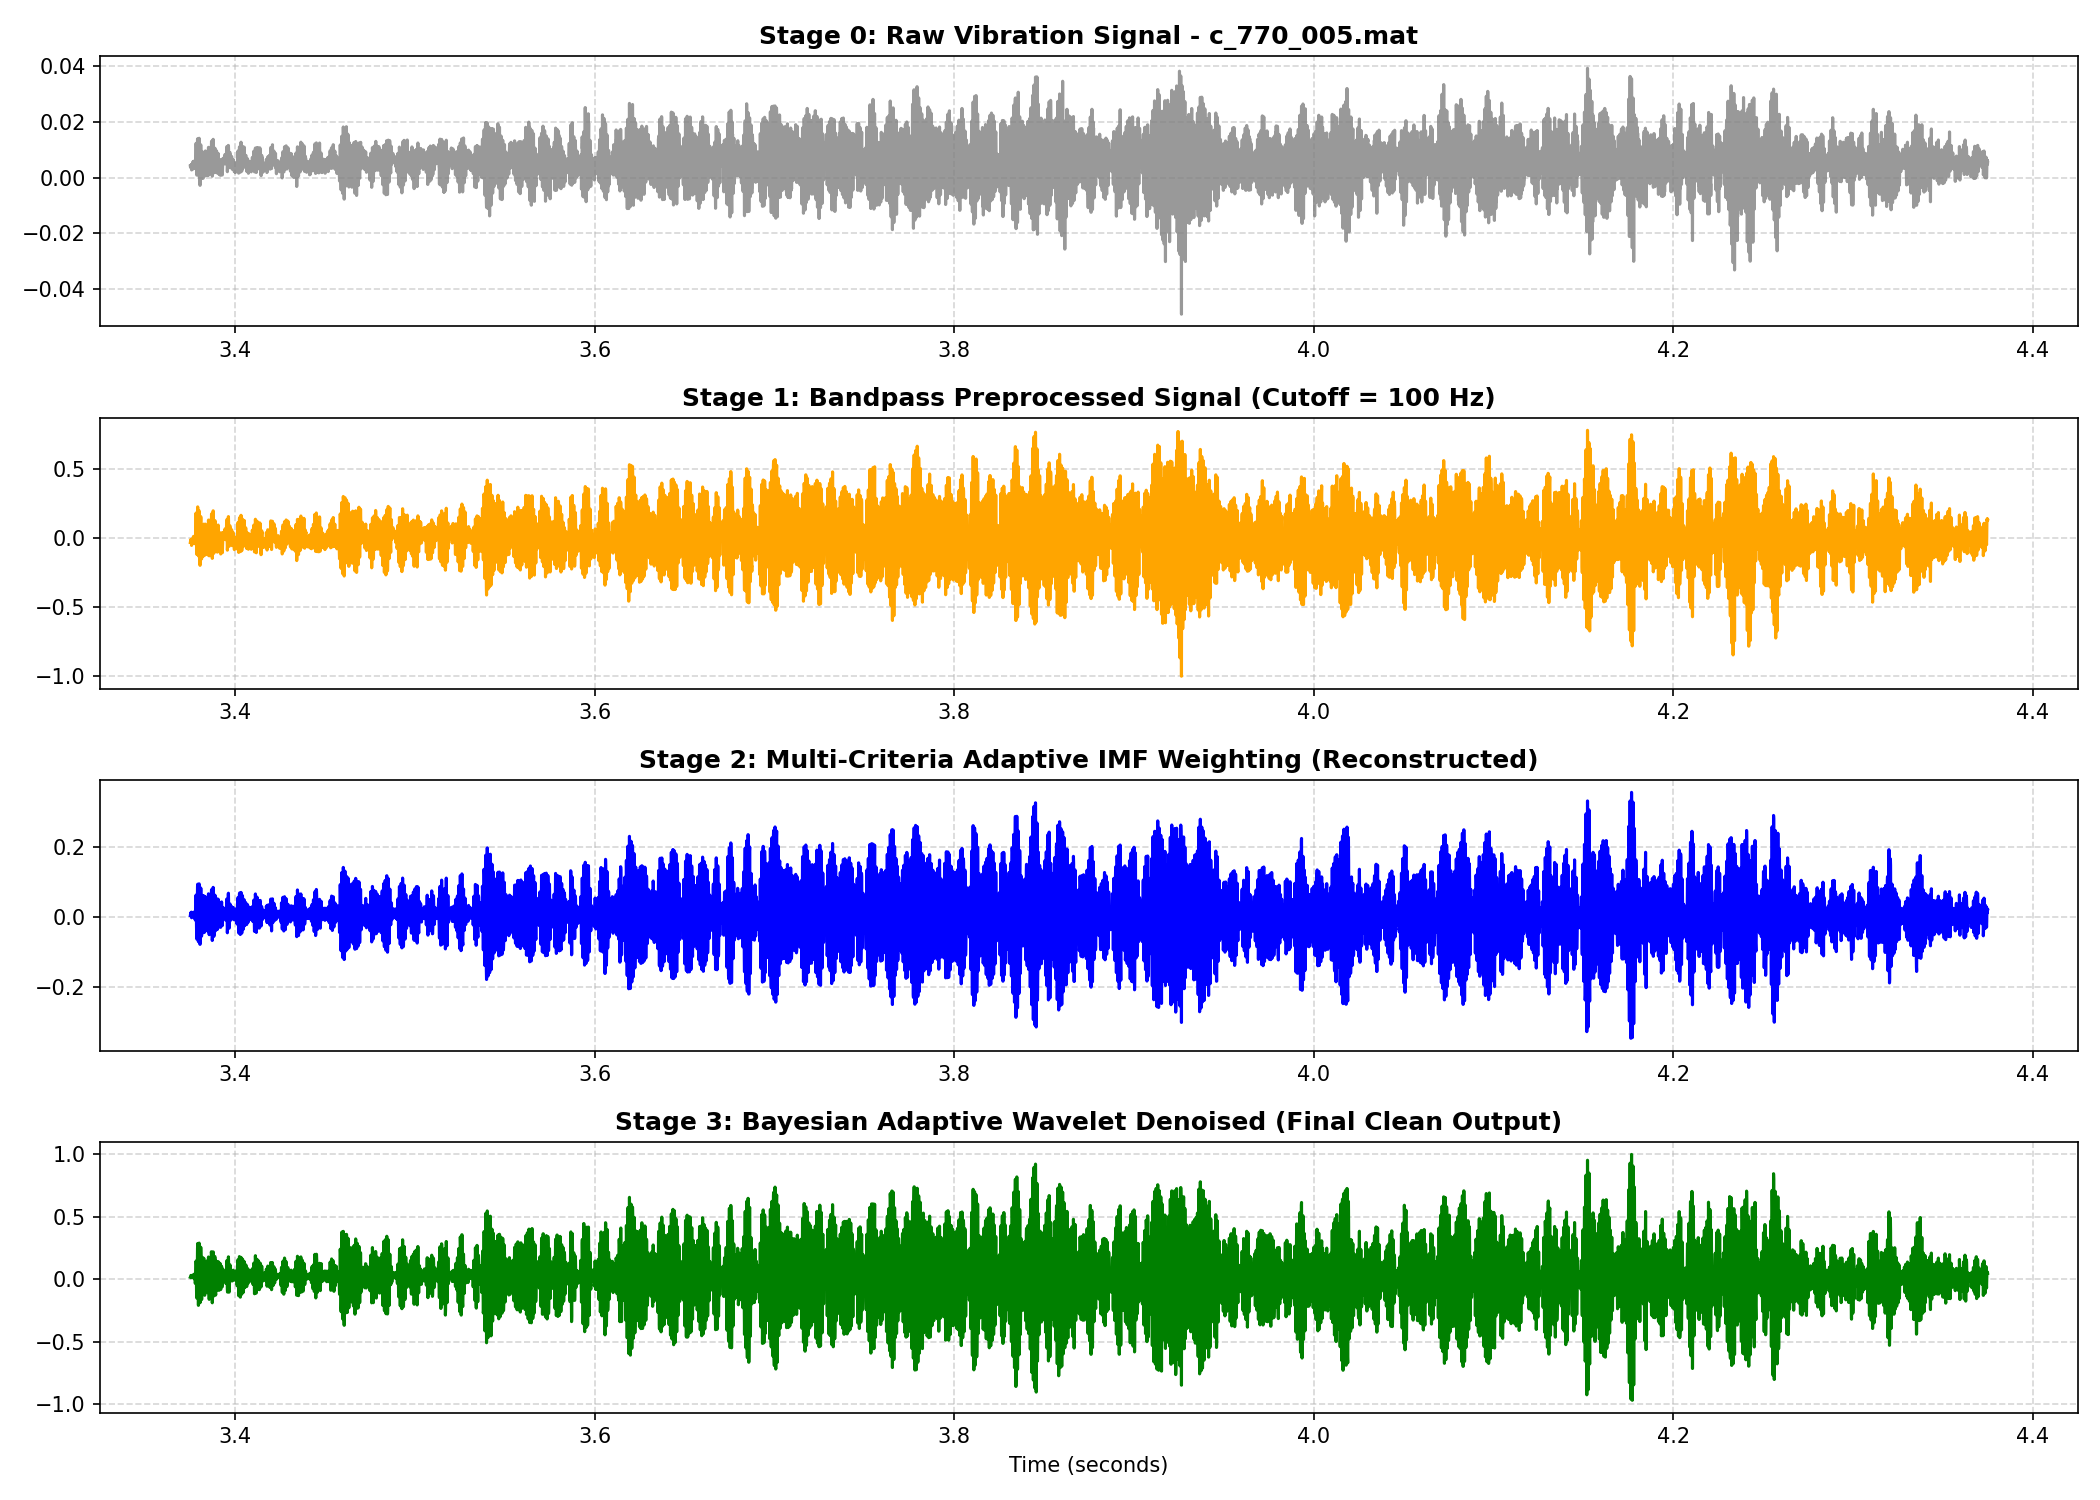
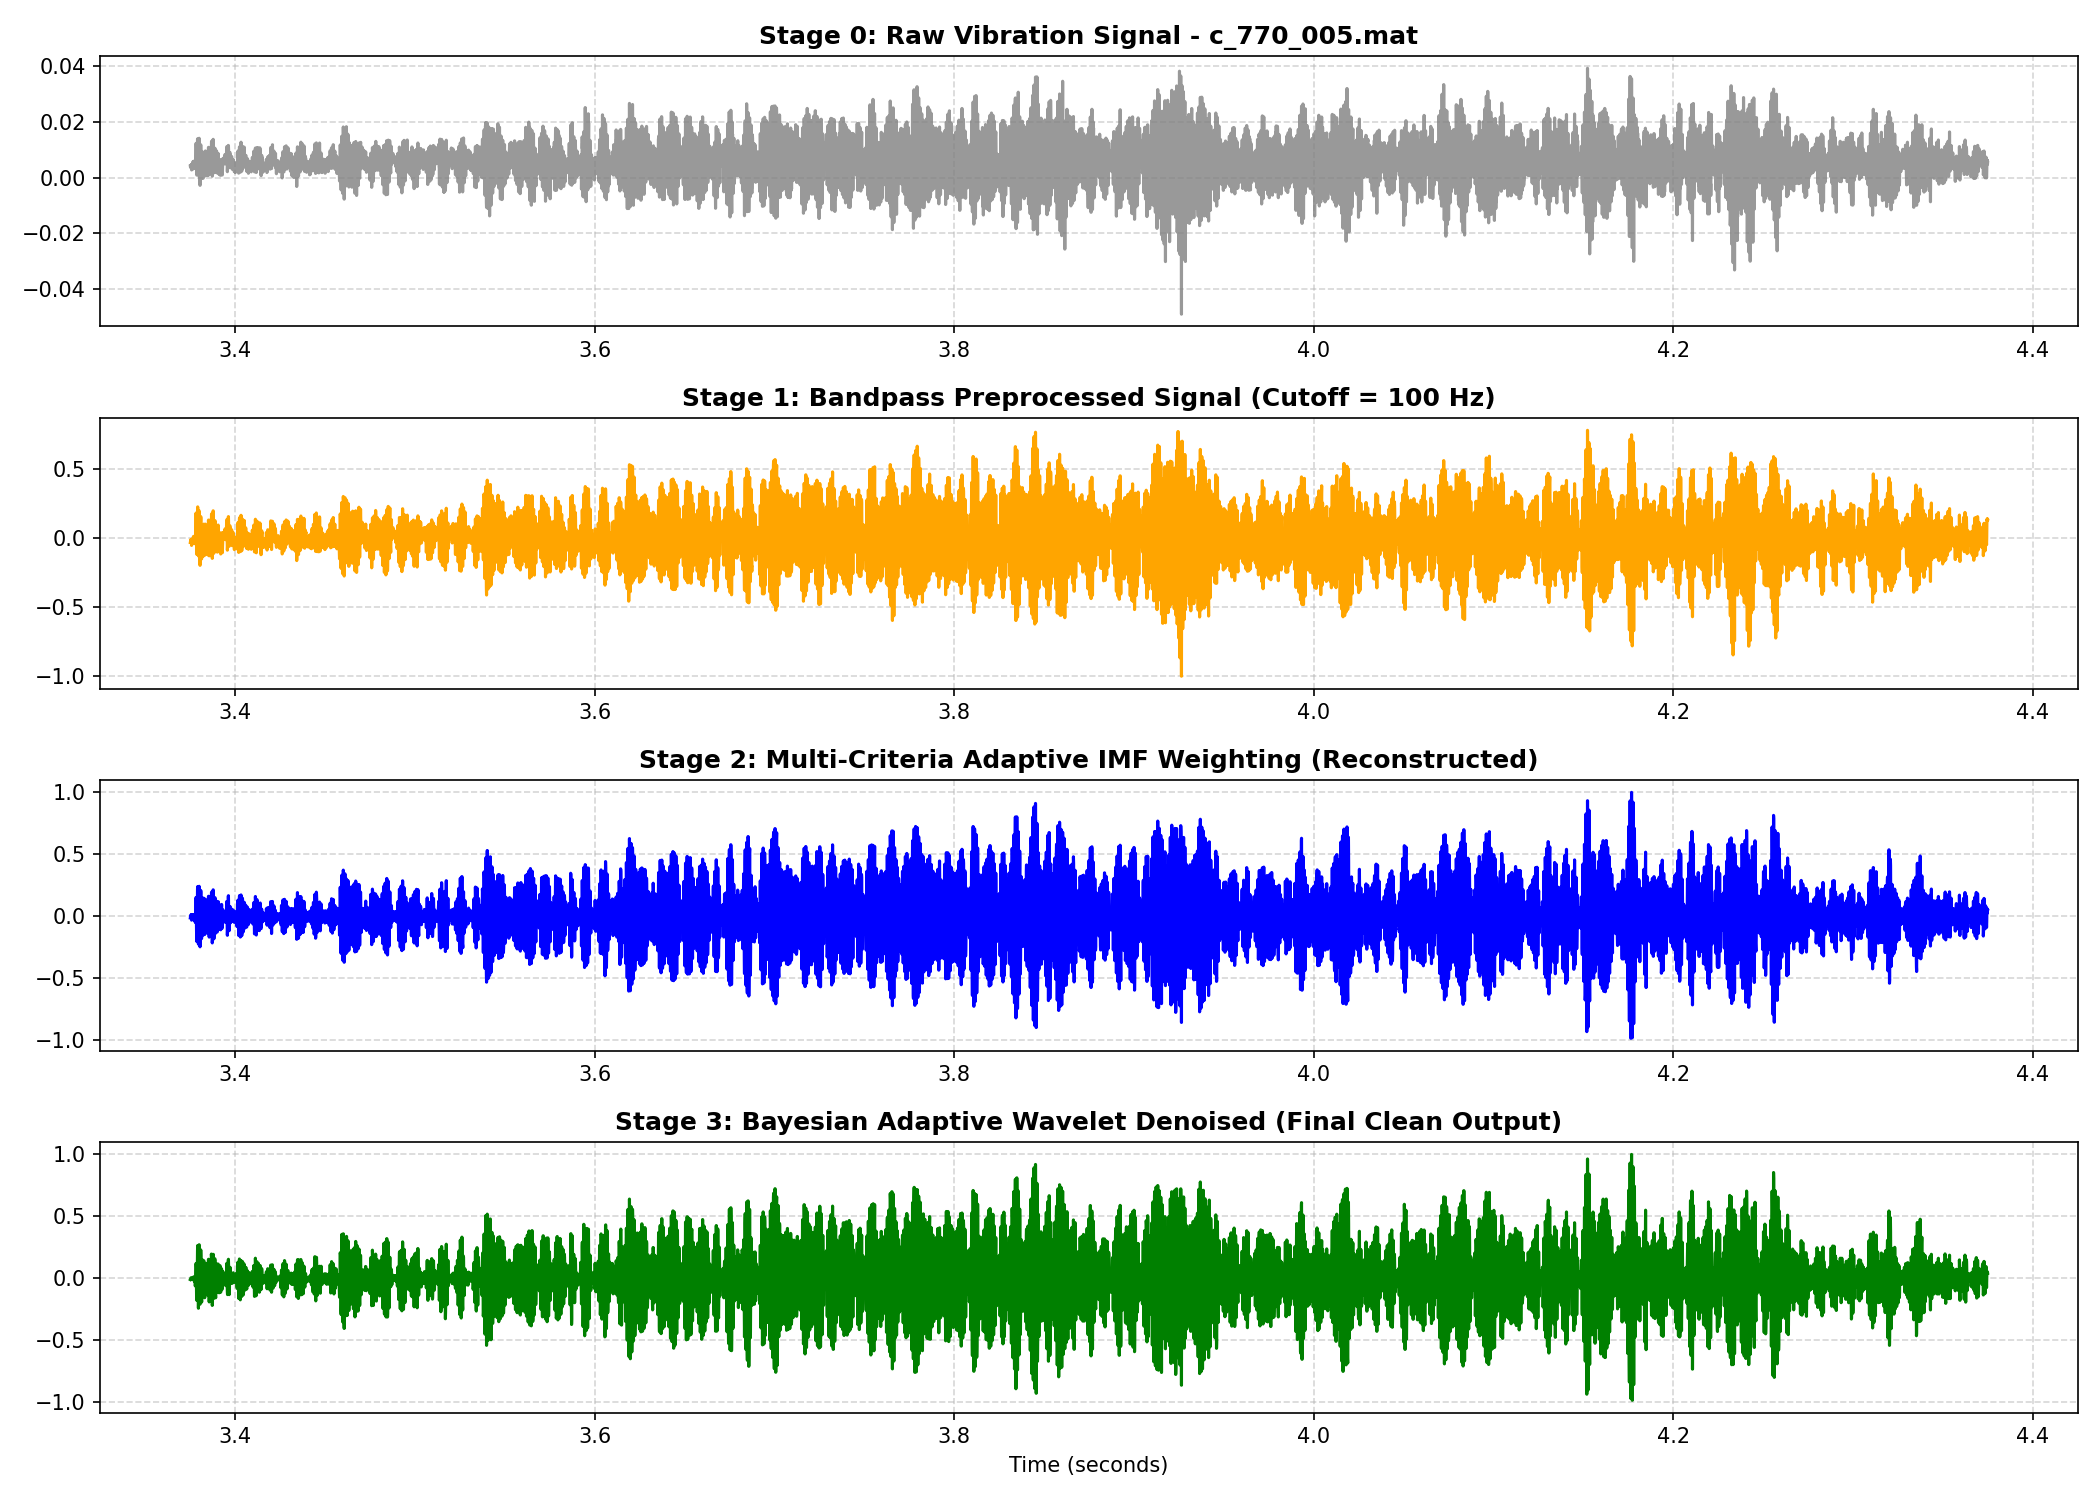
Refactor: unify math, normalize indicators, exclude residual, fix noise estimation, rename modules, and fix paths

Changed region(s): [[0.3095, 0.552, 0.3405, 0.5827], [0.1857, 0.828, 0.2167, 0.8587], [0.1238, 0.828, 0.1548, 0.8587]]

diff --git a/Python/test_three_files.py b/Python/test_three_files.py
@@ -10,17 +10,24 @@ import matplotlib
 matplotlib.use('Agg')
 import matplotlib.pyplot as plt
 
+# Add Python directory to path to allow standard module imports
+sys.path.append(os.path.dirname(os.path.abspath(__file__)))
+
 # Import EMD
 from PyEMD import CEEMDAN
 
-# 1. Helper function to load config
+# Import production pipeline functions directly
+from maiw_weighting import calculate_maiw_weights
+from wavelet_denoise import wavelet_denoise
+
+# Helper function to load config
 def load_pipeline_config():
     import json
-    config_path = "/home/harshit/Documents/Research/Python/config.json"
+    config_path = os.path.join(os.path.dirname(os.path.abspath(__file__)), "config.json")
     with open(config_path, 'r') as f:
         return json.load(f)
 
-# 2. Preprocess function
+# Preprocess function
 def preprocess_raw_signal(raw_vibration, low_cutoff=100.0, fs=10000.0):
     nyquist = 0.5 * fs
     high_cutoff = 4000.0
@@ -30,7 +37,7 @@ def preprocess_raw_signal(raw_vibration, low_cutoff=100.0, fs=10000.0):
     max_val = np.max(np.abs(detrended))
     return detrended / (max_val if max_val > 0 else 1.0)
 
-# 3. Select max energy segment
+# Select max energy segment
 def select_max_energy_segment(signal, time, segment_points=10000):
     if len(signal) > segment_points:
         squared_signal = np.square(signal)
@@ -42,7 +49,7 @@ def select_max_energy_segment(signal, time, segment_points=10000):
     else:
         return signal, time, 0
 
-# 4. Fast MMI evaluation
+# Fast MMI evaluation
 def evaluate_mode_mixing(s_seg, ceemdan_cfg):
     trials = ceemdan_cfg["search_trials"]
     epsilon = ceemdan_cfg["epsilon"]
@@ -61,7 +68,7 @@ def evaluate_mode_mixing(s_seg, ceemdan_cfg):
     avg_corr = np.mean(corrs) if corrs else 1.0
     return avg_corr
 
-# 5. EMD Diagnostics
+# EMD Diagnostics
 def compute_diagnostics(original, imfs):
     num_imfs = imfs.shape[0]
     N = original.size
@@ -114,135 +121,15 @@ def compute_diagnostics(original, imfs):
         'energy_percentages': energy_percentages
     }
 
-# 6. MAIW Reconstitution
-def run_maiw(imfs, time, config):
-    maiw_cfg = config["maiw"]
-    num_imfs = imfs.shape[0]
-    N = time.size
-    
-    # Exclude residue (last IMF) from weighting
-    num_weighted = num_imfs - 1
-    
-    # Metrics
-    C = np.zeros(num_weighted)
-    E = np.zeros(num_weighted)
-    K = np.zeros(num_weighted)
-    F = np.zeros(num_weighted)
-    
-    fs = 10000.0
-    chatter_center = maiw_cfg["chatter_band_center"]
-    chatter_spread = maiw_cfg["chatter_band_spread"]
-    
-    # Overall signal energy
-    sum_imfs = np.sum(imfs[:num_weighted], axis=0)
-    sig_std = np.std(sum_imfs)
-    
-    for i in range(num_weighted):
-        imf = imfs[i]
-        
-        # A. Correlation coefficient
-        corr = np.abs(np.corrcoef(imf, sum_imfs)[0, 1])
-        C[i] = corr if not np.isnan(corr) else 0.0
-        
-        # B. Energy percentage
-        E[i] = np.sum(imf ** 2) / np.sum(sum_imfs ** 2)
-        
-        # C. Kurtosis
-        # kurtosis = E[(x - mu)^4] / sigma^4 - 3 (or fisher=False)
-        mu = np.mean(imf)
-        std = np.std(imf)
-        if std > 0:
-            K[i] = np.mean((imf - mu) ** 4) / (std ** 4)
-        else:
-            K[i] = 3.0 # normal kurtosis
-            
-        # D. Frequency Proximity
-        # Peak frequency of IMF
-        fft_vals = np.abs(scipy.fftpack.fft(imf))
-        freqs = scipy.fftpack.fftfreq(N, 1/fs)
-        pos_freqs = freqs[freqs >= 0]
-        pos_fft = fft_vals[freqs >= 0]
-        peak_f = pos_freqs[np.argmax(pos_fft)]
-        
-        # Gaussian proximity score
-        F[i] = np.exp(-((peak_f - chatter_center) ** 2) / (2 * (chatter_spread ** 2)))
-        
-    # Standardize indicators
-    def norm_ind(I):
-        s = np.sum(I)
-        return I / s if s > 0 else np.ones_like(I) / len(I)
-        
-    nC = norm_ind(C)
-    nE = norm_ind(E)
-    nK = norm_ind(K)
-    nF = norm_ind(F)
-    
-    # Weights
-    W = maiw_cfg["alpha"]*nC + maiw_cfg["beta"]*nE + maiw_cfg["gamma"]*nK + maiw_cfg["delta"]*nF
-    
-    # Reconstructed signal
-    reconstructed = np.zeros(N)
-    for i in range(num_weighted):
-        reconstructed += W[i] * imfs[i]
-        
-    # Add residue
-    reconstructed += imfs[-1]
-    
-    return reconstructed, W, C, E, K, F
-
-# 7. Wavelet Denoising
-def run_wavelet_denoise(signal, time, config):
-    import pywt
-    wav_cfg = config["wavelet"]
-    wavelet_name = wav_cfg["wavelet_name"]
-    requested_level = wav_cfg["level"]
-    
-    # Calculate max possible level
-    max_level = pywt.dwt_max_level(data_len=len(signal), filter_len=pywt.Wavelet(wavelet_name).dec_len)
-    level = min(requested_level, max_level)
-    
-    # Decompose
-    coeffs = pywt.wavedec(signal, wavelet_name, level=level)
-    
-    # BayesShrink thresholding on detail coefficients
-    for i in range(1, len(coeffs)):
-        details = coeffs[i]
-        # Estimating noise sigma from Median Absolute Deviation of highest level details
-        if i == 1:
-            sigma_w = np.median(np.abs(details)) / 0.6745
-        
-        # Signal variance estimate
-        var_y = np.mean(details ** 2)
-        var_x = max(0, var_y - (sigma_w ** 2))
-        
-        # BayesShrink threshold
-        if var_x > 0:
-            threshold = (sigma_w ** 2) / np.sqrt(var_x)
-        else:
-            threshold = np.max(np.abs(details)) # threshold everything
-            
-        coeffs[i] = pywt.threshold(details, threshold, mode='soft')
-        
-    # Reconstruct
-    clean_signal = pywt.waverec(coeffs, wavelet_name)
-    # Clip/truncate to exact original length
-    clean_signal = clean_signal[:len(signal)]
-    
-    # Normalize clean signal
-    max_val = np.max(np.abs(clean_signal))
-    if max_val > 0:
-        clean_signal = clean_signal / max_val
-        
-    return clean_signal
-
-# 8. Main execution
+# Main execution
 def main():
     config = load_pipeline_config()
     ceemdan_cfg = config["ceemdan"]
     
-    # Directory paths
-    raw_dir = "/home/harshit/Documents/Research/Vibration - ML"
-    testing_dir = "/home/harshit/Documents/Research/testing/t1"
+    # Resolve paths relative to repository root
+    root_dir = os.path.dirname(os.path.dirname(os.path.abspath(__file__)))
+    raw_dir = os.path.join(root_dir, "Vibration - ML")
+    testing_dir = os.path.join(root_dir, "testing/t1")
     os.makedirs(testing_dir, exist_ok=True)
     
     # Find all mat files
@@ -306,7 +193,7 @@ def main():
         
         # Save IMFs
         npz_path = os.path.join(testing_dir, f"{base_name}_IMFs.npz")
-        np.savez_compressed(npz_path, time=opt_t_seg, original_signal=opt_s_seg, imfs=imfs)
+        np.savez_compressed(npz_path, time=opt_t_seg, original_signal=opt_s_seg, imfs=imfs, start_index=start_idx)
         
         # Save EMD plot
         num_imfs = imfs.shape[0]
@@ -329,8 +216,18 @@ def main():
         plt.savefig(plot_path, dpi=150)
         plt.close()
         
-        # 4. MAIW Reconstruction
-        reconstructed, W, C, E, K, F = run_maiw(imfs, opt_t_seg, config)
+        # 4. MAIW Reconstruction (Production logic: normalized metrics & no residual)
+        W, C, E, K, F = calculate_maiw_weights(imfs, opt_s_seg)
+        num_weighted = imfs.shape[0] - 1
+        reconstructed = np.zeros_like(opt_s_seg)
+        for i in range(num_weighted):
+            reconstructed += W[i] * imfs[i]
+            
+        # Scale reconstructed signal
+        max_val_reconstructed = np.max(np.abs(reconstructed))
+        if max_val_reconstructed > 0:
+            reconstructed = reconstructed / max_val_reconstructed
+            
         maiw_path = os.path.join(testing_dir, f"{base_name}_MAIW.mat")
         scipy.io.savemat(maiw_path, {
             'tsDS': np.column_stack((opt_t_seg, reconstructed)),
@@ -341,8 +238,14 @@ def main():
             'frequency_proximity': F
         })
         
-        # 5. Wavelet Denoising
-        clean_signal = run_wavelet_denoise(reconstructed, opt_t_seg, config)
+        # 5. Wavelet Denoising (Production logic: BayesShrink with d1 estimation)
+        clean_signal = wavelet_denoise(reconstructed)
+        
+        # Scale clean signal
+        max_val_clean = np.max(np.abs(clean_signal))
+        if max_val_clean > 0:
+            clean_signal = clean_signal / max_val_clean
+            
         clean_path = os.path.join(testing_dir, f"{base_name}_Clean.mat")
         scipy.io.savemat(clean_path, {
             'tsDS': np.column_stack((opt_t_seg, clean_signal))

diff --git a/Python/pipeline_monitor.py b/Python/pipeline_monitor.py
@@ -2,26 +2,23 @@ import os
 import sys
 import time
 import glob
-import importlib
 import subprocess
 
 # Add current directory to path so we can import packages
 sys.path.append(os.path.dirname(os.path.abspath(__file__)))
 
-# Import the modules starting with numbers
+# Clean imports from renamed modules
 try:
-    maiw_module = importlib.import_module("03_maiw_weighting")
-    denoise_module = importlib.import_module("04_wavelet_denoise")
-    process_file_maiw = maiw_module.process_file_maiw
-    process_file_denoise = denoise_module.process_file_denoise
+    from maiw_weighting import process_file_maiw
+    from wavelet_denoise import process_file_denoise
 except Exception as e:
     print(f"Error importing modules: {e}")
     sys.exit(1)
 
 def check_active_processes():
     try:
-        # Check if 02_iceemdan.py is running
-        res = subprocess.run(["pgrep", "-f", "02_iceemdan.py"], capture_output=True, text=True)
+        # Check if iceemdan.py is running
+        res = subprocess.run(["pgrep", "-f", "iceemdan.py"], capture_output=True, text=True)
         pids = res.stdout.strip().split()
         return len(pids) > 0
     except Exception:
@@ -32,9 +29,11 @@ def main():
     config = load_pipeline_config()
     suffix = config.get("output_suffix", "")
     
-    imf_dir = f"/home/harshit/Documents/Research/Vibration_IMFs{suffix}"
-    maiw_dir = f"/home/harshit/Documents/Research/Vibration_MAIW{suffix}"
-    clean_dir = f"/home/harshit/Documents/Research/Vibration_Clean{suffix}"
+    # Resolve paths dynamically relative to repository root
+    root_dir = os.path.dirname(os.path.dirname(os.path.abspath(__file__)))
+    imf_dir = os.path.join(root_dir, f"Vibration_IMFs{suffix}")
+    maiw_dir = os.path.join(root_dir, f"Vibration_MAIW{suffix}")
+    clean_dir = os.path.join(root_dir, f"Vibration_Clean{suffix}")
     
     os.makedirs(maiw_dir, exist_ok=True)
     os.makedirs(clean_dir, exist_ok=True)
@@ -99,10 +98,10 @@ def main():
             
         # If CEEMDAN is still running, wait before next check
         if check_active_processes():
-            print("⏳ 02_iceemdan.py is still running. Sleeping for 15 seconds...", end="\r")
+            print("⏳ iceemdan.py is still running. Sleeping for 15 seconds...", end="\r")
             time.sleep(15)
         else:
-            print("\n🏁 02_iceemdan.py has finished execution or is not running.")
+            print("\n🏁 iceemdan.py has finished execution or is not running.")
             print("Running final sweep...")
             break
             

diff --git a/Python/run_pipeline.py b/Python/run_pipeline.py
@@ -22,13 +22,13 @@ if __name__ == "__main__":
     print("==================================================")
     
     # Stage 1: Adaptive Preprocessing & CEEMDAN Decomposition
-    run_script("02_iceemdan.py")
+    run_script("iceemdan.py")
     
     # Stage 2: Multi-Criteria Adaptive IMF Weighting (MAIW)
-    run_script("03_maiw_weighting.py")
+    run_script("maiw_weighting.py")
     
     # Stage 3: Bayesian Adaptive Wavelet Denoising
-    run_script("04_wavelet_denoise.py")
+    run_script("wavelet_denoise.py")
     
     print("\n==================================================")
     print("🎉 ALL PIPELINE STAGES COMPLETED SUCCESSFULLY!")